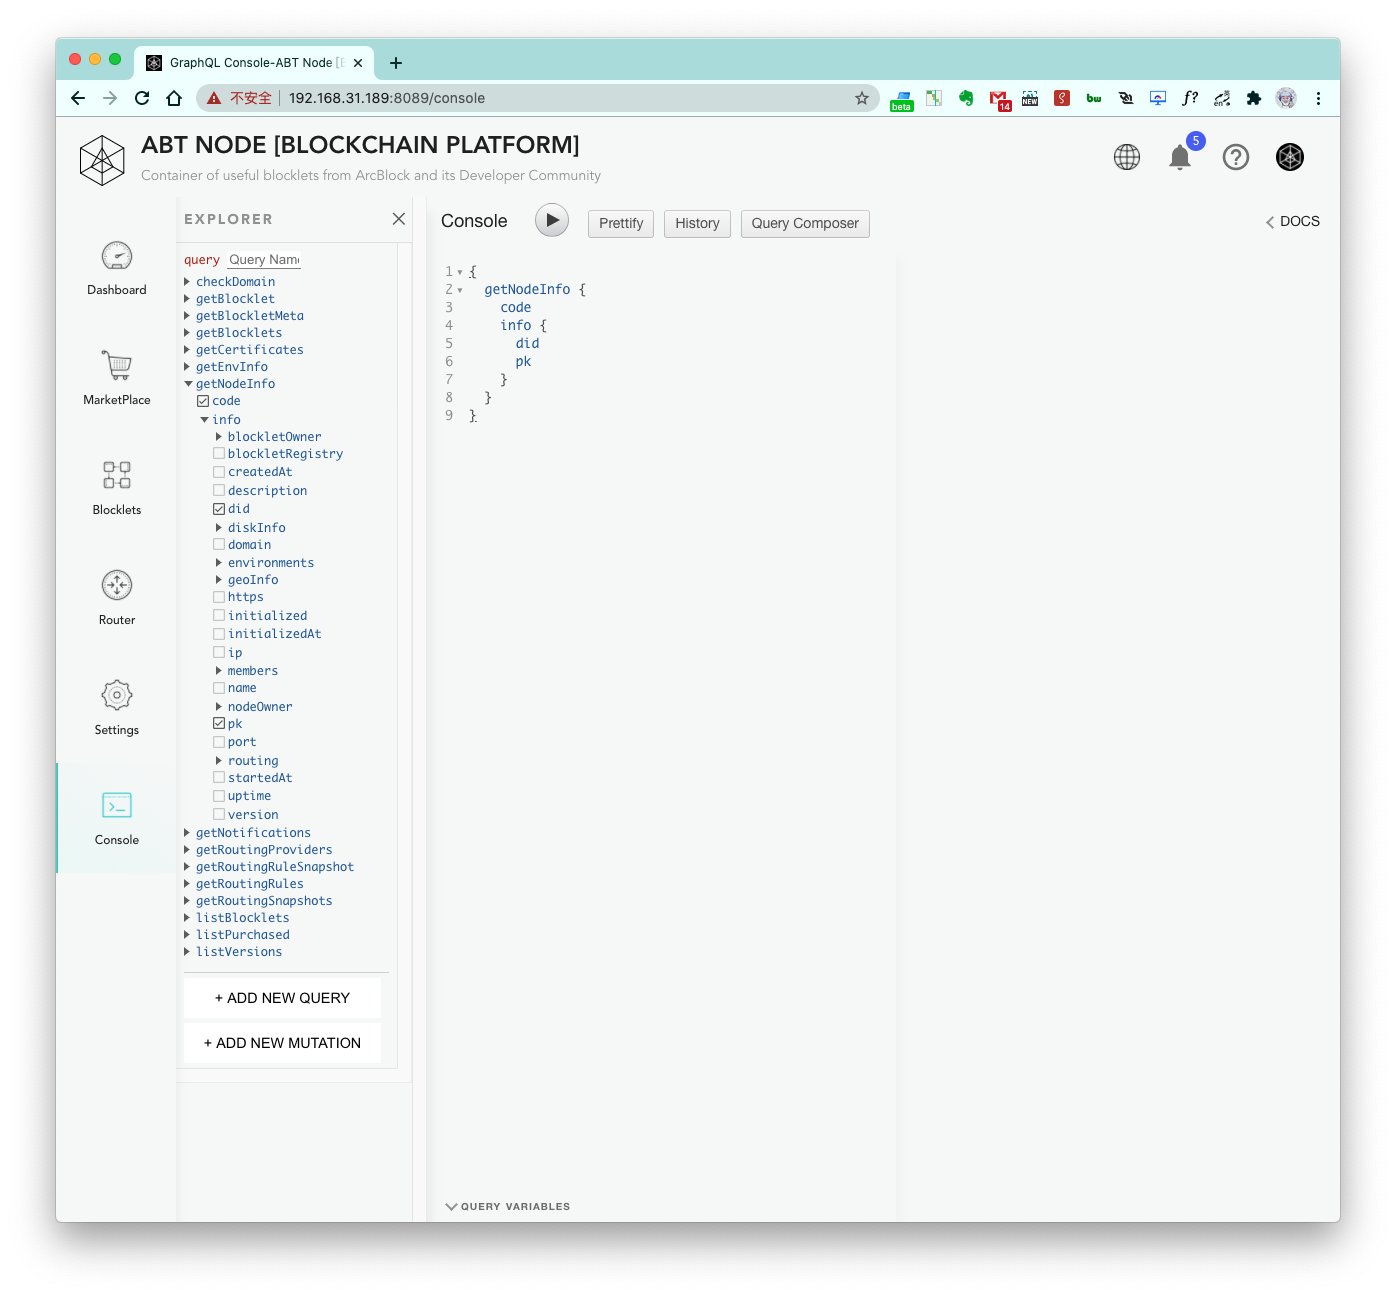
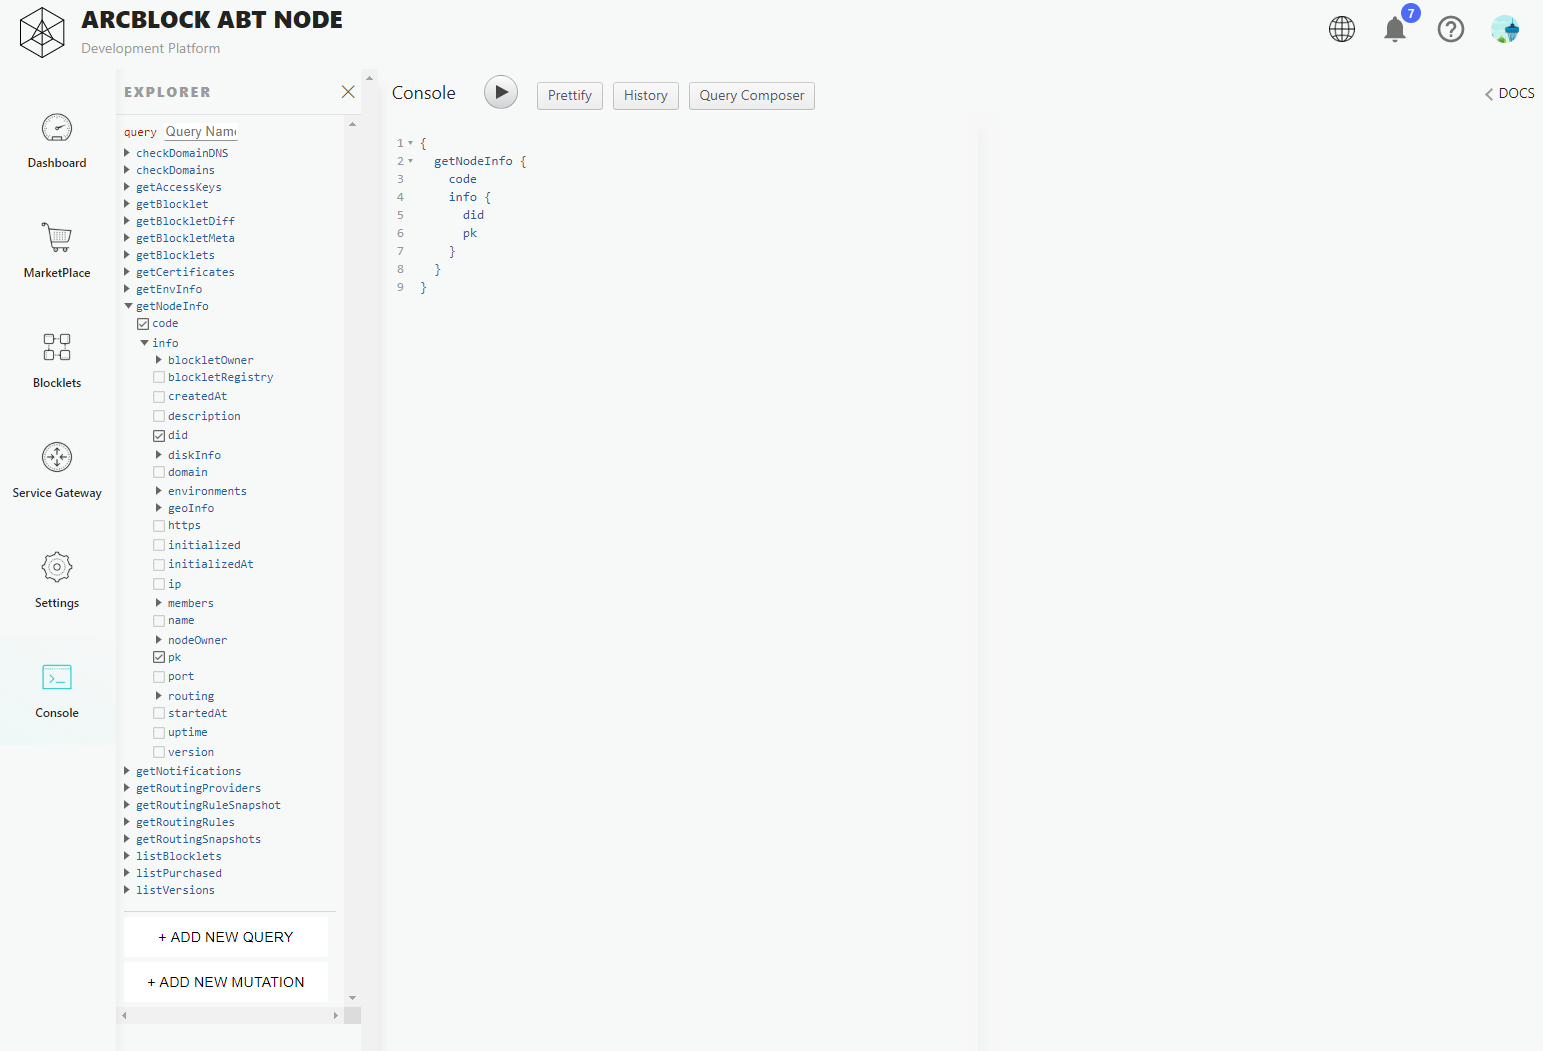
nate to review

Changed region(s): [[0.0, 0.0, 0.9857, 0.9743], [0.4928, 0.1522, 0.616, 0.1827], [0.3388, 0.2131, 0.4004, 0.274]]

diff --git a/src/introduction/abtnode-overview/index.md b/src/introduction/abtnode-overview/index.md
@@ -9,9 +9,11 @@ tags:
   - 'abtnode'
 ---
 
-Following the steps above, we have completed the acquisition, installation, configuration, and operation of ABT Node. Now let's take a look at the functions of ABT Node in general.
+ABT Node is a distributed computing operaing system built for the decentralized web and is the foundation of the ArcBlock platform.  ABT Node is the first platform to fully integrate decentralized identity, blockchain framework and reusable software components known as Blocklets to make it easy to add new capabilities for any project. Users can one-click install apps, blockchains, developer tools, and more to enable them to deploy blockchain nodes, smart contracts, application logic, and more with zero hassle.
 
 ## Dashboard
+
+In the dashboard view, you are presented with a "single pane of glass" view that shows you key details including an overview, storage, your node and owner decentralized identity (DID) addresses and environment variables. Every node also includes a left side action bar where that let you interact and control different aspects of your ABT Node. Let's take a look:
 
 ![](./images/abtnode-overview-1-en.png)
 
@@ -21,28 +23,28 @@ Dashboard of ABT node state properties.
 
 ![](./images/abtnode-overview-2-en.png)
 
-ABT Node Blocklet market where users can find installable Blocklets on this page.
+Your ABT Node Marketplace is a digital catalog of Blocklets from ArcBlock, ecosystem partners and software vendors that make it easy to find, install, manage and one-click deploy Blocklets on your ABT Node.
 
 ## Blocklets
 
 ![](./images/abtnode-overview-3-en.png)
 
-Blocklet list of ABT Node installed.
+The Blocklet management page shows you all of the Blocklets installed on your ABT Node, and gives you individual controls for each blocklet including the ability to start, stop, reload and remove the Blocklet. From the mangement page, you can access each Blocklet to review overview information and configuration details needed for development projects.
 
-## Router
+## Service Gateway
 
 ![](./images/abtnode-overview-4-en.png)
 
-Routing configuration for ABT Node. Please go to the detailed functions: [Router](/en/abtnode/router)
+Service Gateway enables enables you to control a virtual connecctions and networking services for your ABT Node. For details on the Service Gateway functionality, visit: [Service Gateway](/en/abtnode/router)
 
 ## Settings
 
 ![](./images/abtnode-overview-5-en.png)
 
-ABT Node configuration function. For more details, please visit: [Misc](/en/abtnode/misc)
+ABT Node settings enable you to customize your ABT Node name, and avaialble Blocklet Registry location, as well as team management features. For more details, please visit: [Misc](/en/abtnode/misc)
 
 ## Console
 
 ![](./images/abtnode-overview-6-en.png)
 
-ABT Node provides graphQL testbed functionality page. For details, please visit: [GraphQL Console](/en/abtnode/misc/graphql-console)
+ABT Node provides a graphQL testbed functionality page. For details about the ABT Node GraphQL Console, please visit: [GraphQL Console](/en/abtnode/misc/graphql-console)

diff --git a/src/introduction/setup-your-abt-node/index.md b/src/introduction/setup-your-abt-node/index.md
@@ -9,33 +9,22 @@ tags:
   - 'abtnode'
 ---
 
-To get your ABT node up and running, you will have to initialize it. Before you initialize your node, make sure you are
-connected to the network you want the node to be on. If you want your node to be accessible over the Internet, make sure
-you are connected to the Internet. If you are using a VM, use a bridged network adapter (NAT network adapter also works
-if port forwarding is enabled) or attach an external wireless card to the VM.
+With your ABT Node installed on your device you will need to initialize it to get started. 
 
-Also, if you have already initialized ABT Node, you can start your node with `abtnode start`, or you can reinitialize
-your node by deleting the configuration files (use `rm /r /f ~/.abtnode*` if you used the default values for the data
-directory and the config file).
+_Note, make sure you are connected to the network you want the node to be on and if you are using a VM, use a bridged network adapter (NAT network adapter also works
+if port forwarding is enabled) or attach an external wireless card to the VM._
 
-To initialize the code, run this command:
+1. To initialize your ABT Node, run this command:
 
 ```bash
 abtnode init
 ```
 
-Then, fill each field (or leave them blank, which will default to the parenthesized values). When you get to the part
-where you select an IP address, use a local IP address if you are just testing your node on your network or select a
-public IP address if you want your node to be accessible over the Internet.
+2. Once initialized, the system will confirm the directory where you want to initilize your ABT Node instance. 
 
-<details>
-<summary>Sample output</summary>
+3. After confirming, the system will automatically generate your ABT Node configuration.
 
-![Initialize ABT Node](./images/initialize_abtnode.gif)
-
-</details>
-
-Now, you need to start your node in order to use it. To start your node, run this command:
+4. With your configuration genreated, you need to start your ABT Node in order to use it. Run this command:
 
 ```bash
 abtnode start
@@ -48,11 +37,17 @@ abtnode start
 
 </details>
 
-Then, open the outputted link in a browser. The browser can be on other devices as long as the device the browser is on
-can connect to the node. Scan the QR code with your ABT Wallet to make yourself the owner of the node and confirm the
-action on your wallet.
+5. Then, open the generated link in your browser. The first screen confirms acceptance of ArcBlock's End-User Agreement.
 
-If you want to stop the node, run this command:
+![](./setup-abt-node.png)
+
+6. After accepting the License Agreement, you will scan the generated QRCode using your ArcBlock ABT Wallet. During this process, you will secure your ABT Node and connect this ABT Node to your wallet.  
+
+![](./scan-abt-node.png)
+
+7. Now, go to the dashboard. 
+
+8. If you want to stop the node, run this command:
 
 ```bash
 abtnode stop

diff --git a/src/introduction/how-to-get-abtnode/index.md b/src/introduction/how-to-get-abtnode/index.md
@@ -11,8 +11,11 @@ tags:
 
 ## How to get ABT Node?
 
-Currently, we can only get ABT Node working for [Linux] and [macOS]. If you are using another OS like Windows, you can
-use a virtual machine and make sure your ABT Wallet can access your VM's IP address.
+Today, there are multiple ways to get ABT Node up and running, Today, you can launch ABT Node on Amazon Web Services, Docker, as well as locally on your device.
+
+_*Note, if you are interested in running ABT Node locally on your device, we currently support [Linux] and [macOS]. If you are using another OS like Windows, we recommend using Windows Subsystem Linux (WSL) or you can use a virtual machine and make sure your ABT Wallet can access your VM's IP address._
+
+## Setup ABT Node Using Command Linue
 
 ### Step 1: Install [nvm]
 
